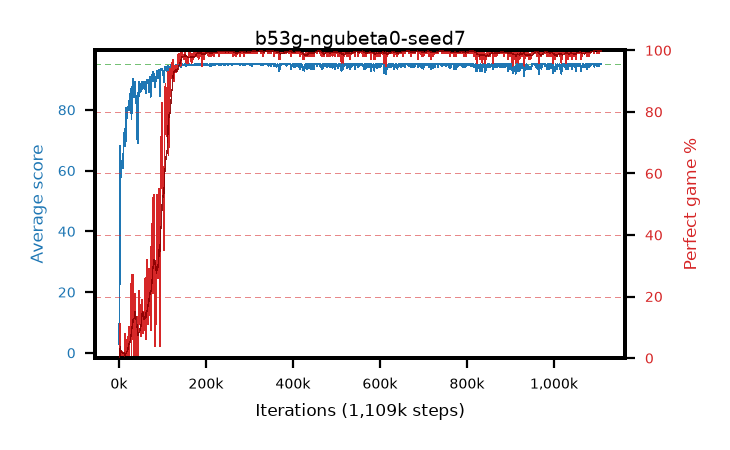
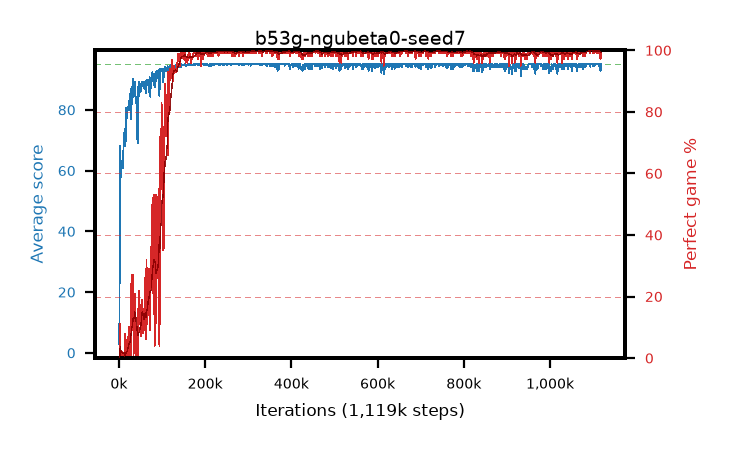
live pictures of 4 arm(s)

diff --git a/results/b53g-ngubeta0-seed7/b53g-ngubeta0-seed7.md b/results/b53g-ngubeta0-seed7/b53g-ngubeta0-seed7.md
@@ -1,6 +1,6 @@
 # b53g-ngubeta0-seed7
 
-step **1,109,000** · 1109 evals · trailing **94.87** · peak **94.97** @274,000 · sef **90.0** · best30 **99.8** @1,108,000
+step **1,119,000** · 1119 evals · trailing **94.78** · peak **94.97** @274,000 · sef **90.1** · best30 **99.8** @1,111,000
 
 ## Config
 
@@ -80,15 +80,15 @@ step **1,109,000** · 1109 evals · trailing **94.87** · peak **94.97** @274,00
 | 2000 | 37.8 | 20.34 | 6.0 | 63.0 | 32.628 | 0.0 | 0.4 |
 | 3000 | 67.99 | 36.22 | 23.0 | 95.0 | 74.006 | 11.0 | 0.4 |
 | ... | ... | ... | ... | ... | ... | ... | ... |
-| 1098000 | 95.0 | 94.76 | 95.0 | 95.0 | 193.783 | 100.0 | 0.4 |
-| 1099000 | 95.0 | 94.78 | 95.0 | 95.0 | 193.779 | 100.0 | 0.4 |
-| 1100000 | 94.26 | 94.78 | 21.0 | 95.0 | 192.005 | 99.0 | 0.4 |
-| 1101000 | 95.0 | 94.81 | 95.0 | 95.0 | 193.795 | 100.0 | 0.4 |
-| 1102000 | 95.0 | 94.81 | 95.0 | 95.0 | 193.792 | 100.0 | 0.4 |
-| 1103000 | 94.3 | 94.81 | 25.0 | 95.0 | 192.047 | 99.0 | 0.4 |
-| 1104000 | 95.0 | 94.81 | 95.0 | 95.0 | 193.796 | 100.0 | 0.4 |
-| 1105000 | 95.0 | 94.81 | 95.0 | 95.0 | 193.789 | 100.0 | 0.4 |
-| 1106000 | 95.0 | 94.86 | 95.0 | 95.0 | 193.794 | 100.0 | 0.4 |
-| 1107000 | 95.0 | 94.86 | 95.0 | 95.0 | 193.792 | 100.0 | 0.4 |
 | 1108000 | 95.0 | 94.87 | 95.0 | 95.0 | 193.779 | 100.0 | 0.4 |
 | 1109000 | 95.0 | 94.87 | 95.0 | 95.0 | 193.79 | 100.0 | 0.4 |
+| 1110000 | 94.97 | 94.87 | 92.0 | 95.0 | 192.759 | 99.0 | 0.4 |
+| 1111000 | 95.0 | 94.9 | 95.0 | 95.0 | 193.786 | 100.0 | 0.4 |
+| 1112000 | 95.0 | 94.9 | 95.0 | 95.0 | 193.791 | 100.0 | 0.4 |
+| 1113000 | 94.37 | 94.88 | 32.0 | 95.0 | 192.113 | 99.0 | 0.4 |
+| 1114000 | 95.0 | 94.91 | 95.0 | 95.0 | 193.785 | 100.0 | 0.4 |
+| 1115000 | 94.33 | 94.88 | 28.0 | 95.0 | 192.078 | 99.0 | 0.4 |
+| 1116000 | 94.99 | 94.88 | 94.0 | 95.0 | 192.74 | 99.0 | 0.4 |
+| 1117000 | 92.67 | 94.8 | 13.0 | 95.0 | 188.345 | 97.0 | 0.4 |
+| 1118000 | 94.19 | 94.78 | 14.0 | 95.0 | 191.939 | 99.0 | 0.4 |
+| 1119000 | 95.0 | 94.78 | 95.0 | 95.0 | 193.787 | 100.0 | 0.4 |

diff --git a/results/b53e-ngubeta0-seed5/b53e-ngubeta0-seed5.md b/results/b53e-ngubeta0-seed5/b53e-ngubeta0-seed5.md
@@ -1,6 +1,6 @@
 # b53e-ngubeta0-seed5
 
-step **1,099,000** · 1099 evals · trailing **94.37** · peak **94.95** @437,000 · sef **90.8** · best30 **99.8** @530,000
+step **1,109,000** · 1109 evals · trailing **94.41** · peak **94.95** @437,000 · sef **90.9** · best30 **99.8** @530,000
 
 ## Config
 
@@ -80,15 +80,15 @@ step **1,099,000** · 1099 evals · trailing **94.37** · peak **94.95** @437,00
 | 2000 | 29.39 | 17.35 | 3.0 | 54.0 | 24.459 | 0.0 | 0.4 |
 | 3000 | 50.81 | 28.5 | 16.0 | 85.0 | 45.457 | 0.0 | 0.4 |
 | ... | ... | ... | ... | ... | ... | ... | ... |
-| 1088000 | 94.24 | 94.4 | 19.0 | 95.0 | 191.983 | 99.0 | 0.4 |
-| 1089000 | 93.31 | 94.38 | 18.0 | 95.0 | 189.02 | 97.0 | 0.4 |
-| 1090000 | 93.42 | 94.37 | 12.0 | 95.0 | 190.131 | 98.0 | 0.4 |
-| 1091000 | 94.9 | 94.36 | 85.0 | 95.0 | 192.694 | 99.0 | 0.4 |
-| 1092000 | 94.97 | 94.39 | 92.0 | 95.0 | 192.707 | 99.0 | 0.4 |
-| 1093000 | 94.37 | 94.37 | 32.0 | 95.0 | 192.119 | 99.0 | 0.4 |
-| 1094000 | 94.15 | 94.36 | 10.0 | 95.0 | 191.897 | 99.0 | 0.4 |
-| 1095000 | 95.0 | 94.38 | 95.0 | 95.0 | 193.784 | 100.0 | 0.4 |
-| 1096000 | 94.23 | 94.41 | 23.0 | 95.0 | 190.97 | 98.0 | 0.4 |
-| 1097000 | 94.28 | 94.41 | 23.0 | 95.0 | 192.022 | 99.0 | 0.4 |
 | 1098000 | 94.25 | 94.39 | 20.0 | 95.0 | 191.995 | 99.0 | 0.4 |
 | 1099000 | 93.48 | 94.37 | 14.0 | 95.0 | 190.179 | 98.0 | 0.4 |
+| 1100000 | 95.0 | 94.37 | 95.0 | 95.0 | 193.778 | 100.0 | 0.4 |
+| 1101000 | 94.22 | 94.37 | 17.0 | 95.0 | 191.965 | 99.0 | 0.4 |
+| 1102000 | 95.0 | 94.37 | 95.0 | 95.0 | 193.788 | 100.0 | 0.4 |
+| 1103000 | 95.0 | 94.44 | 95.0 | 95.0 | 193.783 | 100.0 | 0.4 |
+| 1104000 | 95.0 | 94.47 | 95.0 | 95.0 | 193.783 | 100.0 | 0.4 |
+| 1105000 | 93.42 | 94.49 | 13.0 | 95.0 | 190.122 | 98.0 | 0.4 |
+| 1106000 | 95.0 | 94.49 | 95.0 | 95.0 | 193.777 | 100.0 | 0.4 |
+| 1107000 | 93.84 | 94.46 | 26.0 | 95.0 | 190.545 | 98.0 | 0.4 |
+| 1108000 | 94.3 | 94.43 | 27.0 | 95.0 | 191.045 | 98.0 | 0.4 |
+| 1109000 | 94.22 | 94.41 | 22.0 | 95.0 | 190.973 | 98.0 | 0.4 |
